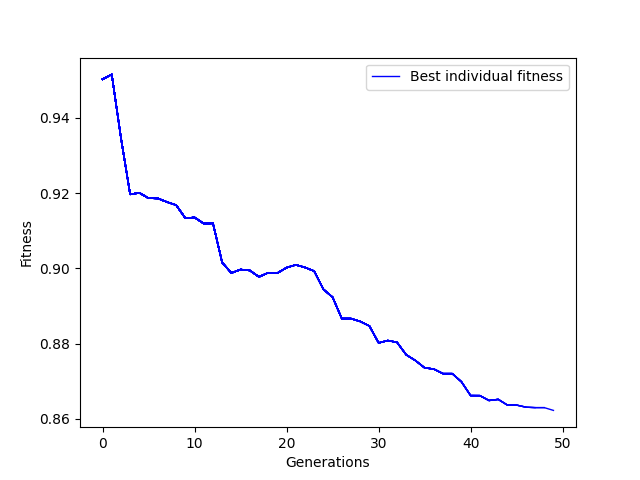
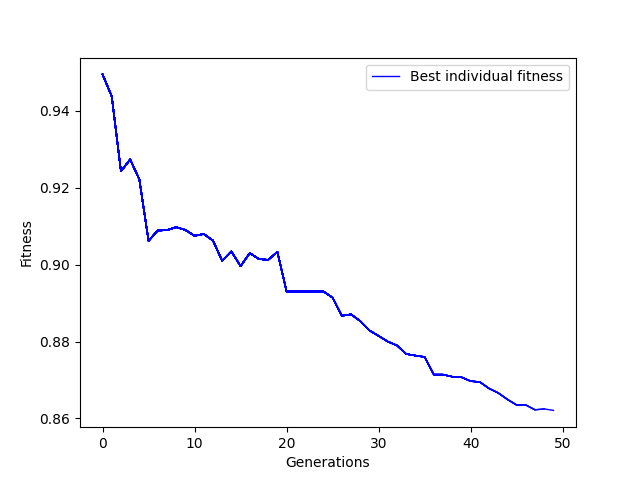
elitism entre generaciones

diff --git a/main.py b/main.py
@@ -10,7 +10,7 @@ import numpy as np
 # Parameters
 chromosome_size = 384  # Tamano del cromosoma 64 = 4 estaciones * 16 sensores/estacion
 debug_level = 0
-max_iterations = 50
+max_iterations = 1000
 
 # Dynamic options for tournament size
 DYNAMIC_T_SIZE = True
@@ -24,10 +24,10 @@ MAX_M_SIZE = 0.1
 
 # ---- Default values to override ----
 save_results = 'default'
-population_size = 100  # Normalmente mayor, tipo 100
-percentage_tournament = 0.05  # Con poblaciones de 100 suele ser un 2%-5% depende
-percentage_mutation = 0.05
-pure_elitism = True
+population_size = 300  # Normalmente mayor, tipo 100
+percentage_tournament = 0.02  # Con poblaciones de 100 suele ser un 2%-5% depende
+percentage_mutation = 0.02
+pure_elitism = False
 
 # -------------------------- Arguments parsing -------------------------- #
 # Options 
@@ -83,7 +83,6 @@ def get_individual_fitness(individual, session):
     # This is for getting the fitness of an specific individual
     url = "http://163.117.164.219/age/alfa?c="
     url = url + str(individual[0])
-    print(individual[0])
     try:
         if debug_level >= 2:
             print(str(individual[0]))
@@ -111,16 +110,15 @@ def evaluate_population(population, session):
         ]
     population_fitness = [f.result() for f in future]
 
+    # return sorted population
+    index_sort = np.array(population_fitness).argsort()
+    population_fitness_sorted = np.array(population_fitness)[index_sort]
+    sorted_population = np.array(population)[index_sort]
+
     best_individual[0] = min(population_fitness)
     best_individual[1] = population[int(np.argmin(population_fitness))][0]
-    # for x in range(population_size):
-    #     ind_fitness = get_individual_fitness(population[x])
-    #     population_fitness.append(ind_fitness)
-    #     if ind_fitness < best_individual[0]:
-    #         best_individual[0] = ind_fitness
-    #         best_individual[1] = population[x][0]
 
-    return population_fitness, best_individual
+    return sorted_population.tolist(), population_fitness_sorted.tolist(), best_individual
 
 def tournament_selection(niter, population, population_fitness):
     # ------------------------------------------
@@ -261,11 +259,12 @@ def main():
     adapter = requests.adapters.HTTPAdapter(pool_connections=population_size, pool_maxsize=population_size, max_retries=MAX_RETRIES)
     session.mount('http://', adapter)
 
+    # Evaluate population and get best individual
+    sorted_population, population_fitness, best_individual = evaluate_population(population, session)
+    
     for i in range(0, max_iterations):
         print("--- Generation ", i," ---")
-
-        # Evaluate population and get best individual
-        population_fitness, best_individual = evaluate_population(population, session)
+        
         generations_plt.append(i)
         fitness_curve.append(best_individual[0])
 
@@ -298,21 +297,22 @@ def main():
             print("Tamaño poblacion: " + str(len(population)))
             print("Tamaño cromosoma: " + str(len(population[0][0])))
 
-        new_population = tournament_selection(i, population, population_fitness)
+        new_population = tournament_selection(i, sorted_population, population_fitness)
         # print(new_population)
         population_sons = reproduction(new_population)
         # print(population_sons)
         mutated_population = mutation(i,population_sons)
         # print(population)
 
-        if pure_elitism:
-            random_ind = random.randint(0, population_size-1)
-            mutated_population[random_ind][0] = best_individual[1]
-            # pop_fitn, _ = evaluate_population(mutated_population)
-            # max_pos = pop_fitn.index(max(pop_fitn))
-            # mutated_population[max_pos][0] = best_individual[1]
+        joined = sorted_population + mutated_population
+        all_sorted_population, all_population_fitness, best_individual = evaluate_population(joined,session)
         
-        population = mutated_population
+        sorted_population = all_sorted_population[0:population_size]
+        population_fitness = all_population_fitness[0:population_size]
+
+        if i%10==0:
+            print('Best fitness: ', best_individual[0])
+            print('Best individual: ', best_individual[1])
     
     file.close()
 
